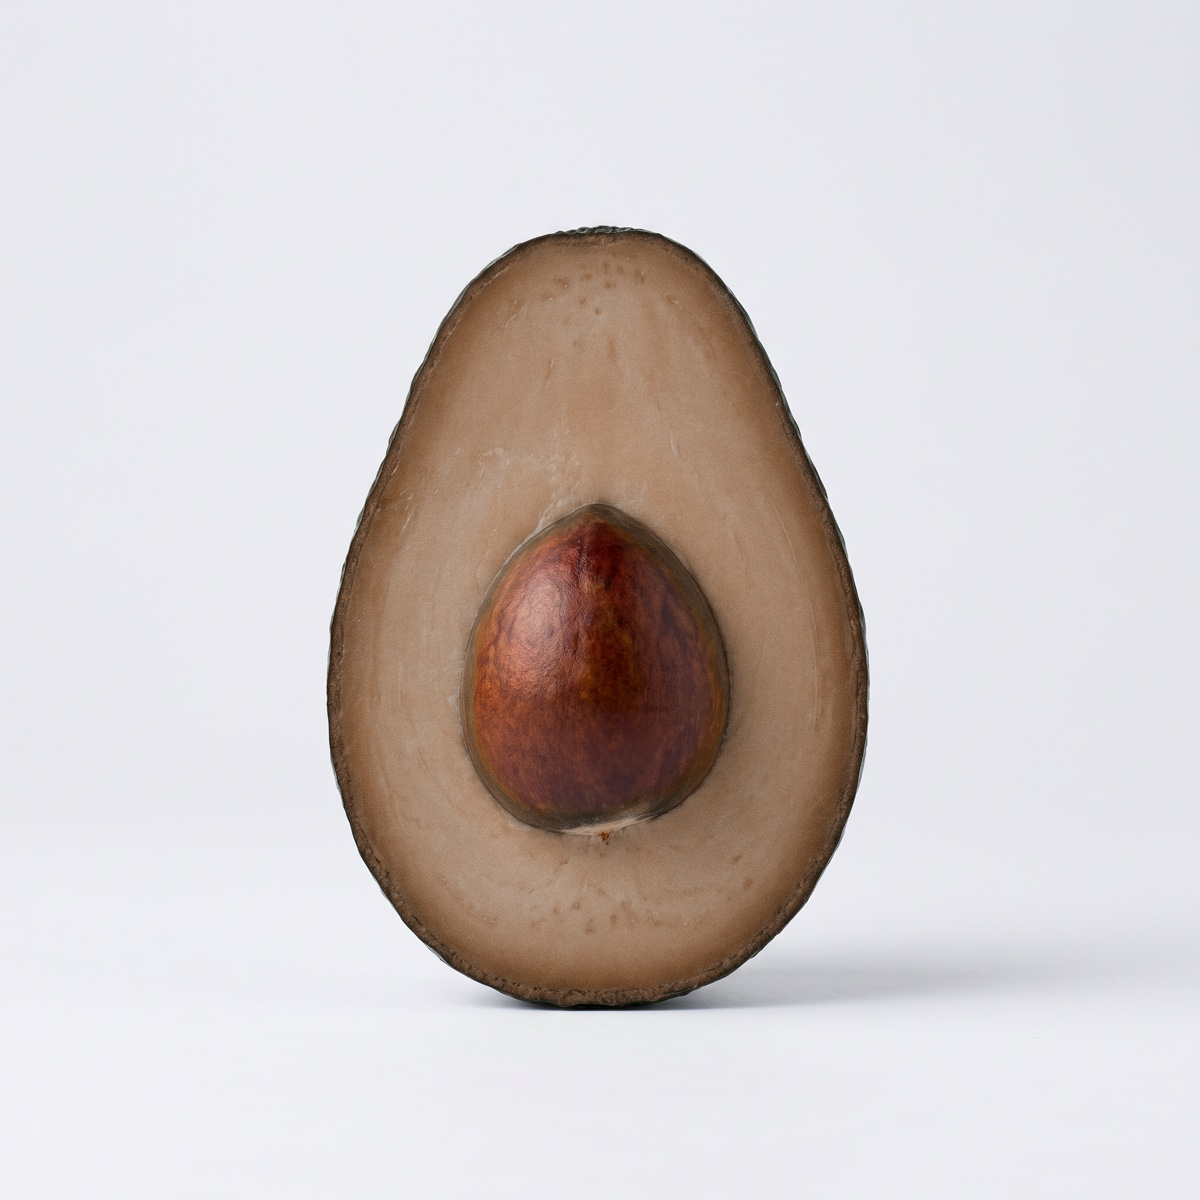
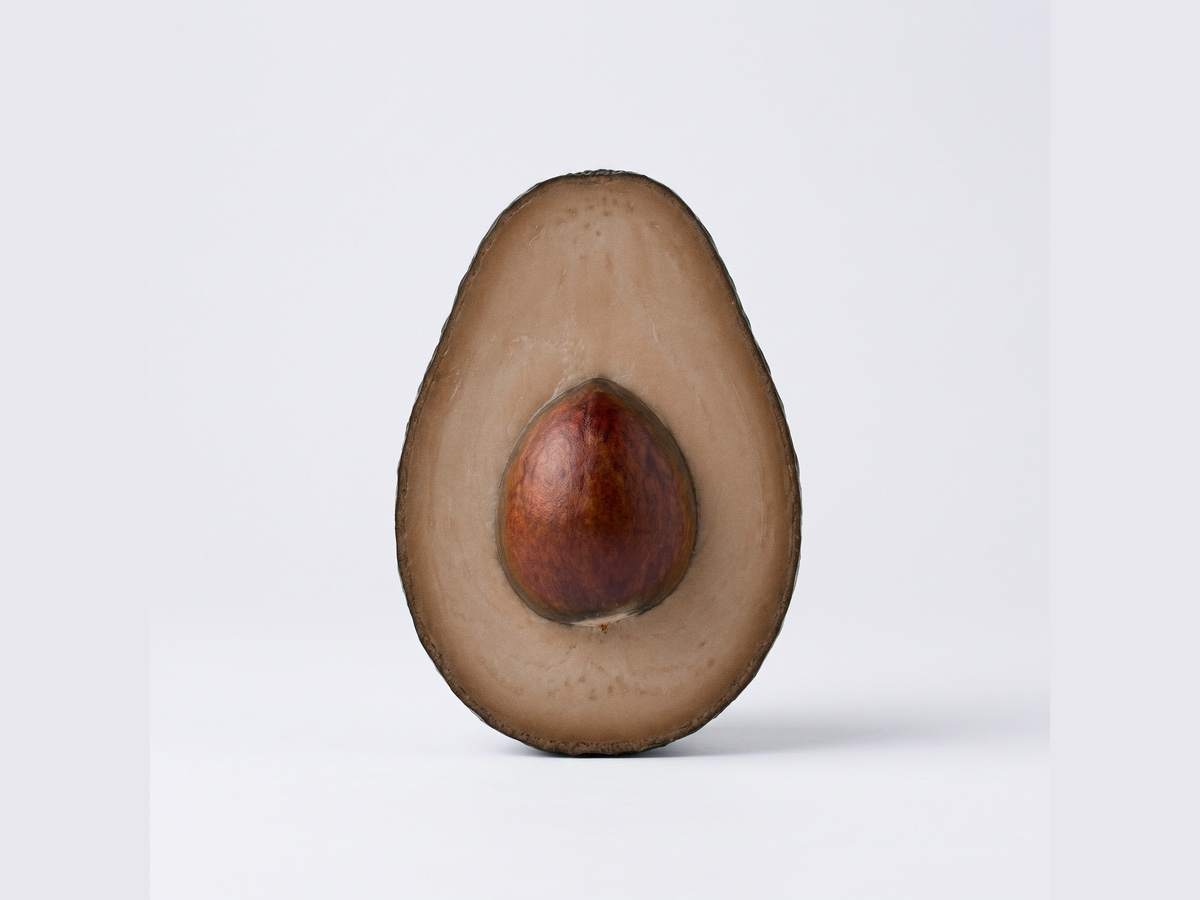
ChefSeal drsnik: slika v razmerju 4:3 in ozji okvir (640 px) kot na originalu, manj notranjega odmika

Changed region(s): [[0.2467, 0.1867, 0.4933, 0.84], [0.5242, 0.1867, 0.74, 0.84]]

diff --git a/wp-content/themes/noriks/template_parts/product-bottom/why-seal.php b/wp-content/themes/noriks/template_parts/product-bottom/why-seal.php
@@ -191,7 +191,7 @@ $ico_recyc = '<path d="M7 7l2-3 2 3"/><path d="M9 4v9H5l2.5 4"/><path d="M15 20h
 </section>
 
 <!-- 6) Bez vakuuma vs. vakuumirano — drsnik -->
-<section class="nsl-sec nsl-white">
+<section class="nsl-sec nsl-white nsl-sec-tight">
   <div class="nsl-wrap">
     <h2 class="nsl-h2 nsl-center">Bez vakuuma vs. vakuumirano</h2>
     <p class="nsl-sub nsl-center">*Prema trodnevnom testu čuvanja u stvarnim uvjetima</p>
@@ -386,15 +386,15 @@ $ico_recyc = '<path d="M7 7l2-3 2 3"/><path d="M9 4v9H5l2.5 4"/><path d="M15 20h
 .nsl-tag-good { background: #e6f4ec; color: #1f7a4d; }
 
 /* 6) drsnik prej/potem */
-.nsl-sub { font-size: 15.5px; color: #6b6b6b; margin: -30px 0 30px; }
-.nsl-ba { position: relative; max-width: 760px; margin: 0 auto; border-radius: 16px; overflow: hidden;
-  background: #f4f4f4; user-select: none; touch-action: pan-y; }
+.nsl-sub { font-size: 15.5px; color: #6b6b6b; margin: -32px 0 26px; }
+.nsl-ba { position: relative; max-width: 640px; margin: 0 auto; border-radius: 14px; overflow: hidden;
+  background: #e7e7ed; user-select: none; touch-action: pan-y; }
 .nsl-ba img { width: 100%; height: auto; display: block; }
 .nsl-ba-over { position: absolute; inset: 0; width: 50%; overflow: hidden; }
-.nsl-ba-over img { width: 760px; max-width: none; height: 100%; object-fit: cover; object-position: left center; }
-.nsl-ba-lab { position: absolute; top: 16px; padding: 8px 16px; border-radius: 8px; font-size: 15px; font-weight: 800; color: #fff; z-index: 3; }
-.nsl-ba-l { left: 16px; background: #3a3a3a; }
-.nsl-ba-r { right: 16px; background: #c3192a; }
+.nsl-ba-over img { width: 640px; max-width: none; height: 100%; object-fit: cover; object-position: left center; }
+.nsl-ba-lab { position: absolute; top: 14px; padding: 7px 14px; border-radius: 7px; font-size: 14.5px; font-weight: 800; color: #fff; z-index: 3; }
+.nsl-ba-l { left: 14px; background: #3a3a3a; }
+.nsl-ba-r { right: 14px; background: #c3192a; }
 .nsl-ba-handle { position: absolute; top: 0; bottom: 0; left: 50%; width: 2px; background: #fff; z-index: 2;
   box-shadow: 0 0 6px rgba(0,0,0,.25); pointer-events: none; }
 .nsl-ba-handle i { position: absolute; top: 50%; left: 50%; transform: translate(-50%,-50%);
@@ -436,6 +436,8 @@ $ico_recyc = '<path d="M7 7l2-3 2 3"/><path d="M9 4v9H5l2.5 4"/><path d="M15 20h
 .nsl-ugc footer strong { display: block; font-size: 15.5px; }
 .nsl-ugc footer em { display: block; font-style: normal; font-size: 13.5px; color: #1f7a4d; font-weight: 600; }
 
+.nsl-sec-tight { padding: 56px 0 60px; }
+.nsl-sec-tight .nsl-h2 { margin-bottom: 40px; }
 .nsl-ph { display: flex; align-items: center; justify-content: center; min-height: 200px; background: #ececed;
   border-radius: 12px; color: #8b8b8b; font-size: 14px; text-align: center; padding: 12px; }
 
